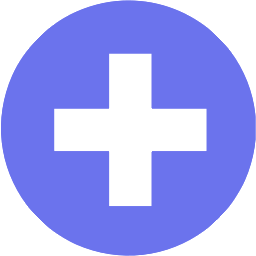
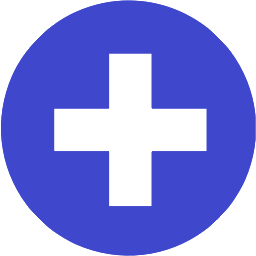
Patologias feitas

diff --git a/public/index.html b/public/index.html
@@ -5,16 +5,31 @@
     <link rel="stylesheet" href="stylesheets/style.css">
 </head>
 <body>
-    <nav class="navbar" >
-        <a href="index.html"><img src="images/home.png">Página Inicial</a>
+<div class="container">
+    <div class="navbar" >
+        <a class="navactive" href="index.html"><img src="images/home.png">Página Inicial</a>
         <a href="candidatura.html"><img src="images/candidatura.png">Candidatura Membro</a>
         <a href="prescritores.html"><img src="images/prescritores.png">Prescritores</a>
         <a href="associacoes.html"><img src="images/associacoes.png">Associações</a>
         <a href="fornecedores.html"><img src="images/fornecedores.png">Fornecedores</a>
         <a href="configurarpop.html"><img src="images/configurarpop.png">Configurar POP</a>
         <a href="configurarsistema.html"><img src="images/configurarsis.png">Configurar Sistema</a>
-      </nav>
-    
- 
- </body>
+    </div>
+    <div class=content>
+        <div class="nota">
+             Na Página Inicial faz-se um diagnóstico das patologias, sintomas, tarefas e determina-se posteriormente os procedimentos para o utilizador usufruir.
+            </div>
+
+        <div class="Patologia">
+          Patologia
+           <select id="PatologiaId">
+            <option value="volvo">Volvo</option>
+            <option value="saab">Saab</option>
+            <option value="opel">Opel</option>
+            <option value="audi">Audi</option>
+          </select>
+          <img src="images/adicionar.png">
+        </div>
+</div>
+</body>
 </html>

diff --git a/public/stylesheets/style.css b/public/stylesheets/style.css
@@ -1,17 +1,19 @@
 .navbar{
     width: 6%;
     height: 100%;
-    position: fixed;
+    position:fixed;
+    margin-left:0;
     z-index: 1;
     top: 0;
     left: 0;
-    background-color:rgb(65,105,225);
+    background-color:#757EF9;
     overflow-x: hidden;
 }
 
 .navbar a{
     text-align:center;
     padding-top:12%;
+    padding-bottom:2%;
     display: flex;
 flex-direction: column;
 align-items: center;
@@ -25,4 +27,62 @@ font-size:12px;
 
 .navbar a img{
     max-width:70%;
+}
+
+.navbar a.navactive {
+    background-color: #454FD0;
+  }
+
+
+.container
+{
+    background-color:#ccc;
+    position:fixed;
+    width:100%;
+    height:100%;
+    top:0px;
+
+        
+}
+.content
+{
+    float: left;
+    position: relative;
+    margin-left:5%;
+}
+
+.nota{
+    background-color:black;
+    color:white;
+    font-family:"Arial";    
+    min-width:100vw;
+    text-align:center;
+
+}
+
+.Patologia
+{
+    margin-top:1%;
+    margin-left:4%;
+    font-family:"Arial"; 
+    font-size:26px;
+    display:flex;
+    position:relative;
+    font-weight: bold;
+
+    
+}
+
+.Patologia img{
+    margin-left:2%;
+    height: 28px;
+}
+
+.Patologia select{
+    height:28px;
+    width:70%;
+    font-size:23px;
+    background-color:#757EF9;
+    margin-left:2.5%;
+
 }

diff --git a/public/prescritores.html b/public/prescritores.html
@@ -1,14 +1,14 @@
 <!DOCTYPE html>
 <html lang="en">
 <head>
-    <title>Diagnóstico Online</title>
+    <title>Prescritores</title>
     <link rel="stylesheet" href="stylesheets/style.css">
 </head>
 <body>
     <nav class="navbar" >
         <a href="index.html"><img src="images/home.png">Página Inicial</a>
         <a href="candidatura.html"><img src="images/candidatura.png">Candidatura Membro</a>
-        <a href="prescritores.html"><img src="images/prescritores.png">Prescritores</a>
+        <a class="navactive" href="prescritores.html"><img src="images/prescritores.png">Prescritores</a>
         <a href="associacoes.html"><img src="images/associacoes.png">Associações</a>
         <a href="fornecedores.html"><img src="images/fornecedores.png">Fornecedores</a>
         <a href="configurarpop.html"><img src="images/configurarpop.png">Configurar POP</a>

diff --git a/public/associacoes.html b/public/associacoes.html
@@ -9,12 +9,12 @@
         <a href="index.html"><img src="images/home.png">Página Inicial</a>
         <a href="candidatura.html"><img src="images/candidatura.png">Candidatura Membro</a>
         <a href="prescritores.html"><img src="images/prescritores.png">Prescritores</a>
-        <a href="associacoes.html"><img src="images/associacoes.png">Associações</a>
+        <a class="navactive" href="associacoes.html"><img src="images/associacoes.png">Associações</a>
         <a href="fornecedores.html"><img src="images/fornecedores.png">Fornecedores</a>
         <a href="configurarpop.html"><img src="images/configurarpop.png">Configurar POP</a>
         <a href="configurarsistema.html"><img src="images/configurarsis.png">Configurar Sistema</a>
       </nav>
     
- 
+
  </body>
 </html>

diff --git a/public/fornecedores.html b/public/fornecedores.html
@@ -10,7 +10,7 @@
         <a href="candidatura.html"><img src="images/candidatura.png">Candidatura Membro</a>
         <a href="prescritores.html"><img src="images/prescritores.png">Prescritores</a>
         <a href="associacoes.html"><img src="images/associacoes.png">Associações</a>
-        <a href="fornecedores.html"><img src="images/fornecedores.png">Fornecedores</a>
+        <a class="navactive" href="fornecedores.html"><img src="images/fornecedores.png">Fornecedores</a>
         <a href="configurarpop.html"><img src="images/configurarpop.png">Configurar POP</a>
         <a href="configurarsistema.html"><img src="images/configurarsis.png">Configurar Sistema</a>
       </nav>

diff --git a/public/configurarpop.html b/public/configurarpop.html
@@ -11,7 +11,7 @@
         <a href="prescritores.html"><img src="images/prescritores.png">Prescritores</a>
         <a href="associacoes.html"><img src="images/associacoes.png">Associações</a>
         <a href="fornecedores.html"><img src="images/fornecedores.png">Fornecedores</a>
-        <a href="configurarpop.html"><img src="images/configurarpop.png">Configurar POP</a>
+        <a class="navactive" href="configurarpop.html"><img src="images/configurarpop.png">Configurar POP</a>
         <a href="configurarsistema.html"><img src="images/configurarsis.png">Configurar Sistema</a>
       </nav>
     

diff --git a/public/candidatura.html b/public/candidatura.html
@@ -7,7 +7,7 @@
 <body>
     <nav class="navbar" >
         <a href="index.html"><img src="images/home.png">Página Inicial</a>
-        <a href="candidatura.html"><img src="images/candidatura.png">Candidatura Membro</a>
+        <a class="navactive" href="candidatura.html"><img src="images/candidatura.png">Candidatura Membro</a>
         <a href="prescritores.html"><img src="images/prescritores.png">Prescritores</a>
         <a href="associacoes.html"><img src="images/associacoes.png">Associações</a>
         <a href="fornecedores.html"><img src="images/fornecedores.png">Fornecedores</a>

diff --git a/public/configurarsistema.html b/public/configurarsistema.html
@@ -12,7 +12,7 @@
         <a href="associacoes.html"><img src="images/associacoes.png">Associações</a>
         <a href="fornecedores.html"><img src="images/fornecedores.png">Fornecedores</a>
         <a href="configurarpop.html"><img src="images/configurarpop.png">Configurar POP</a>
-        <a href="configurarsistema.html"><img src="images/configurarsis.png">Configurar Sistema</a>
+        <a class="navactive" href="configurarsistema.html"><img src="images/configurarsis.png">Configurar Sistema</a>
       </nav>
     
  
